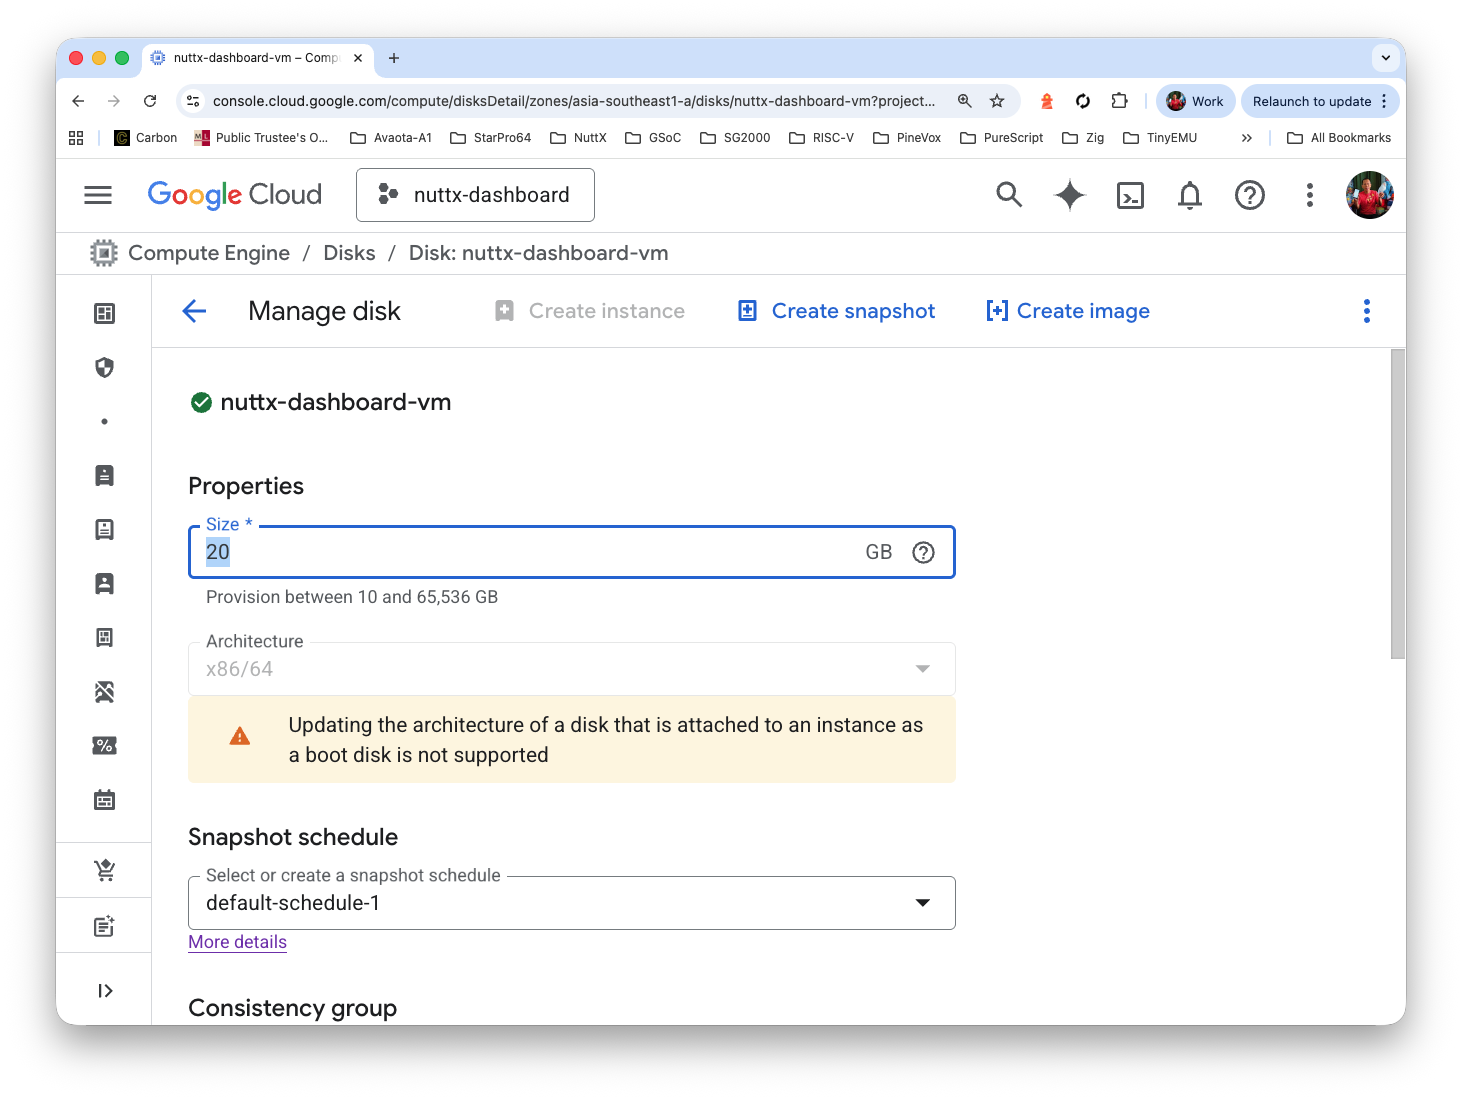
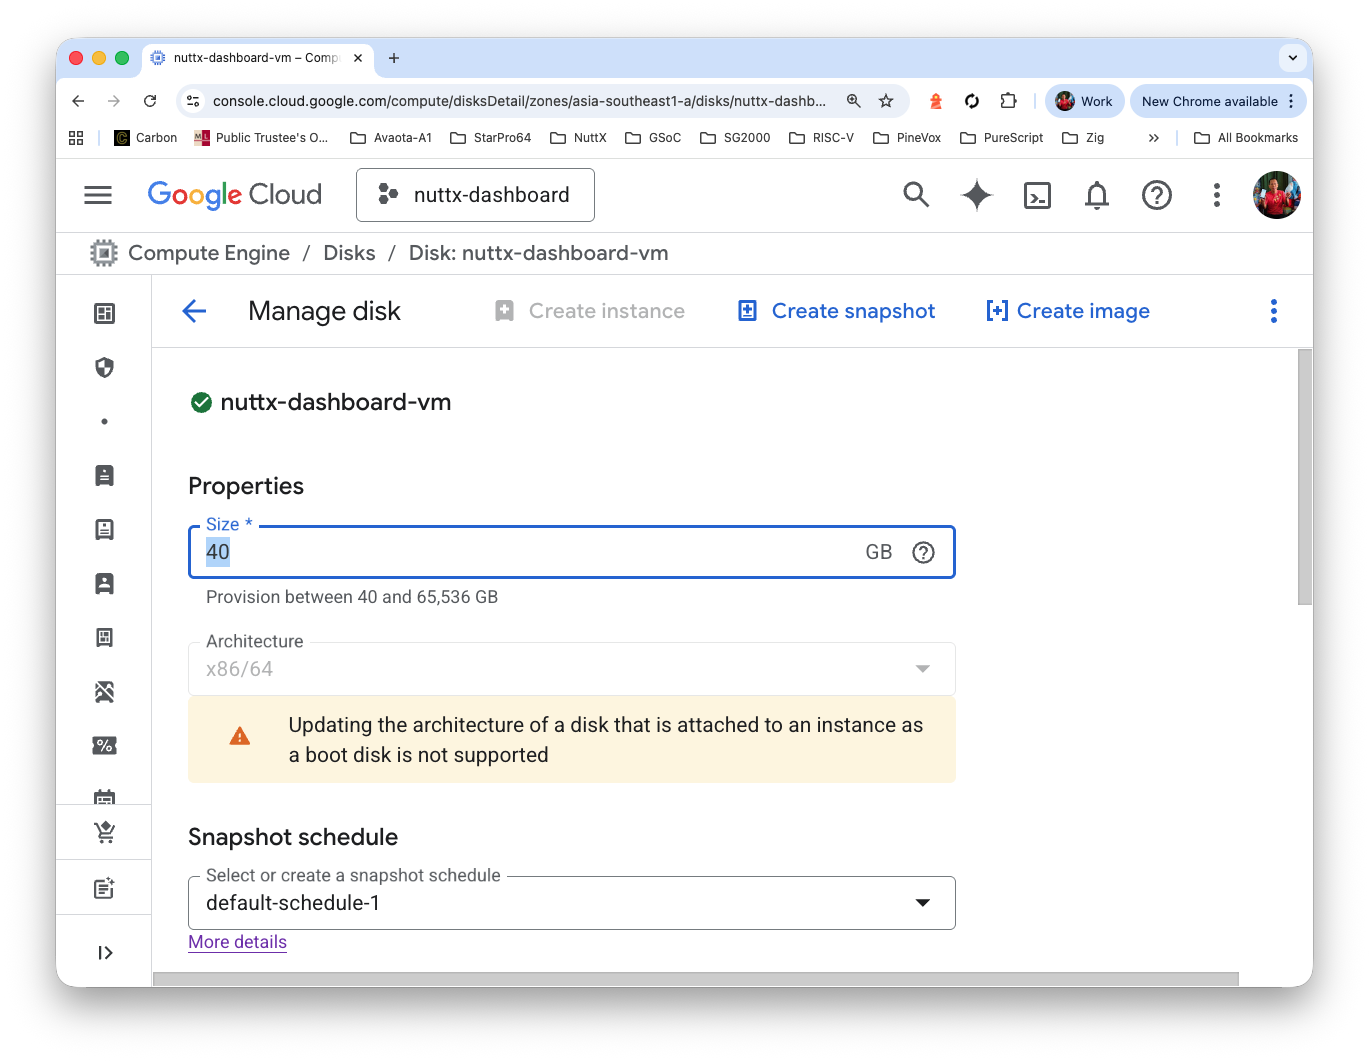
Disk size should be 40 GB

diff --git a/src/dashboard.md b/src/dashboard.md
@@ -48,7 +48,7 @@ Then we create our __Virtual Machine__...
 
 1.  Fill in the __Instance Name__ _"nuttx-dashboard-vm"_. Our VM shall be __General Purpose / Debian Bookworm__
 
-    Set the __Disk Size to 20 GB__ [(or expand it later)](https://lupyuen.org/articles/dashboard#appendix-expand-the-vm-disk)
+    Set the __Disk Size to 40 GB__ [(or expand it later)](https://lupyuen.org/articles/dashboard#appendix-expand-the-vm-disk)
 
     Click __"Create"__
 
@@ -1216,7 +1216,7 @@ tmpfs           412M     0  412M   0% /run/user/1000
 $ rm -rf /tmp/sync-build-ingest/
 ```
 
-This is how we [__Expand the VM Disk__](https://dev.to/lovestaco/expanding-disk-size-in-google-cloud-5gkh), from 10 GB to 20 GB...
+This is how we [__Expand the VM Disk__](https://dev.to/lovestaco/expanding-disk-size-in-google-cloud-5gkh), from 10 GB to 40 GB...
 
 1.  Click __"VM > Details > Storage > Boot Disk"__
 
@@ -1226,9 +1226,9 @@ This is how we [__Expand the VM Disk__](https://dev.to/lovestaco/expanding-disk-
 
     ![Menu > Edit](https://lupyuen.org/images/dashboard-disk2.png)
 
-1.  Increase the size from 10 GB to 20 GB. Click __Save__
+1.  Increase the size from 10 GB to 40 GB. Click __Save__
 
-    ![Increase the size from 10 GB to 20 GB](https://lupyuen.org/images/dashboard-disk3.png)
+    ![Increase the size from 10 GB to 40 GB](https://lupyuen.org/images/dashboard-disk3.png)
 
 1.  Inside our VM: Do this...
 
@@ -1242,7 +1242,7 @@ This is how we [__Expand the VM Disk__](https://dev.to/lovestaco/expanding-disk-
     ## /dev/sda14   2048     8191     6144    3M BIOS boot
     ## /dev/sda15   8192   262143   253952  124M EFI System
 
-    ## Let's expand /dev/sda to 20 GB
+    ## Let's expand /dev/sda to 40 GB
     sudo fdisk /dev/sda
 
     ## Ignore the warning
@@ -1266,7 +1266,7 @@ This is how we [__Expand the VM Disk__](https://dev.to/lovestaco/expanding-disk-
     ## sda1 is bigger now
     $ sudo fdisk -l
     Device      Start      End  Sectors  Size Type
-    /dev/sda1  262144 41943006 41680863 19.9G Linux root (x86-64)
+    /dev/sda1  262144 83886046 83623903 39.9G Linux root (x86-64)
     /dev/sda14   2048     8191     6144    3M BIOS boot
     /dev/sda15   8192   262143   253952  124M EFI System
 
@@ -1274,8 +1274,8 @@ This is how we [__Expand the VM Disk__](https://dev.to/lovestaco/expanding-disk-
     $ df -H
     Filesystem      Size  Used Avail Use% Mounted on
     udev            2.1G     0  2.1G   0% /dev
-    tmpfs           412M  574k  411M   1% /run
-    /dev/sda1        21G  8.5G   12G  43% /
+    tmpfs           412M  603k  411M   1% /run
+    /dev/sda1        43G   27G   14G  67% /
     tmpfs           2.1G     0  2.1G   0% /dev/shm
     tmpfs           5.3M     0  5.3M   0% /run/lock
     /dev/sda15      130M   13M  118M  10% /boot/efi
